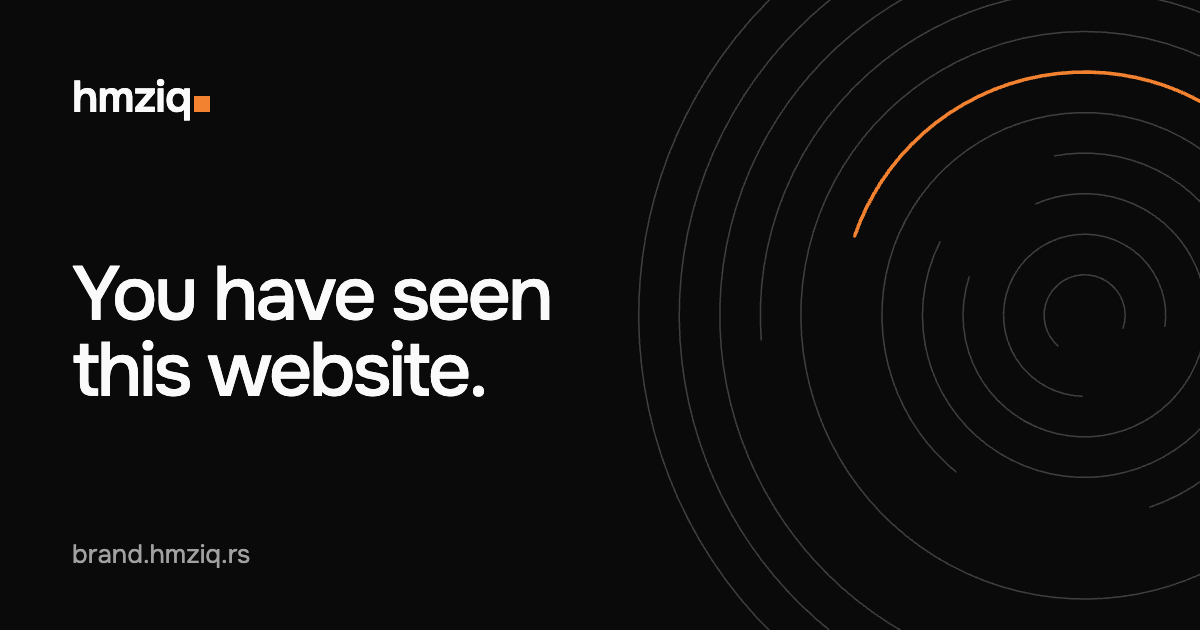
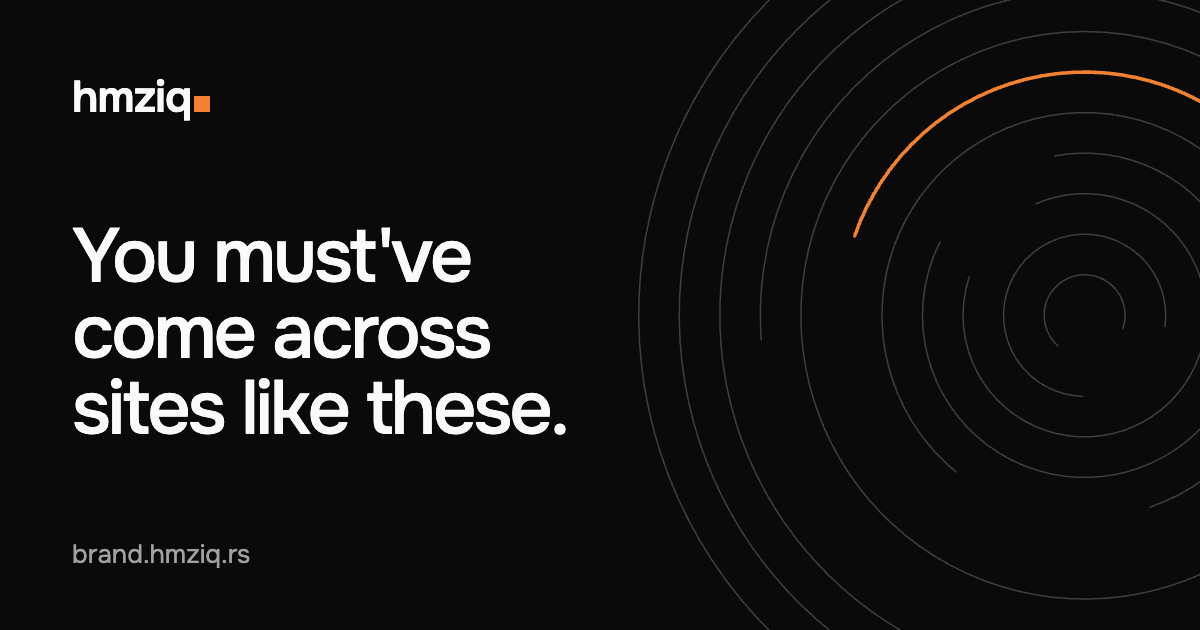
park

Changed region(s): [[0.0617, 0.3619, 0.4933, 0.6937]]

diff --git a/apps/site/src/lib/og-pages.ts b/apps/site/src/lib/og-pages.ts
@@ -9,11 +9,11 @@ export type OgCard = {
 };
 
 /** The one image every page of this site shares. Written to public/og.png. */
-export const siteCard: OgCard = { slug: "rings", title: "You have seen this website.", label: "Rings" };
+export const siteCard: OgCard = { slug: "rings", title: "You must've come across sites like these.", label: "Rings" };
 
 /** Other types of card the template can make. Examples only, written to public/og/<slug>.png. */
 export const exampleCards: OgCard[] = [
-  { slug: "wall", title: "You have seen this website.", label: "Slop wall", graphic: "wall" },
+  { slug: "wall", title: "You must've come across sites like these.", label: "Slop wall", graphic: "wall" },
   { slug: "band", title: "The rules I give every agent.", label: "Orange band", graphic: "rules", tone: "orange" },
   { slug: "list", title: "What I use now, and what I stopped using.", label: "Struck-through list", graphic: "dropped" },
   { slug: "frame", title: "The raw files for every video.", label: "Video frame", graphic: "splash" },
